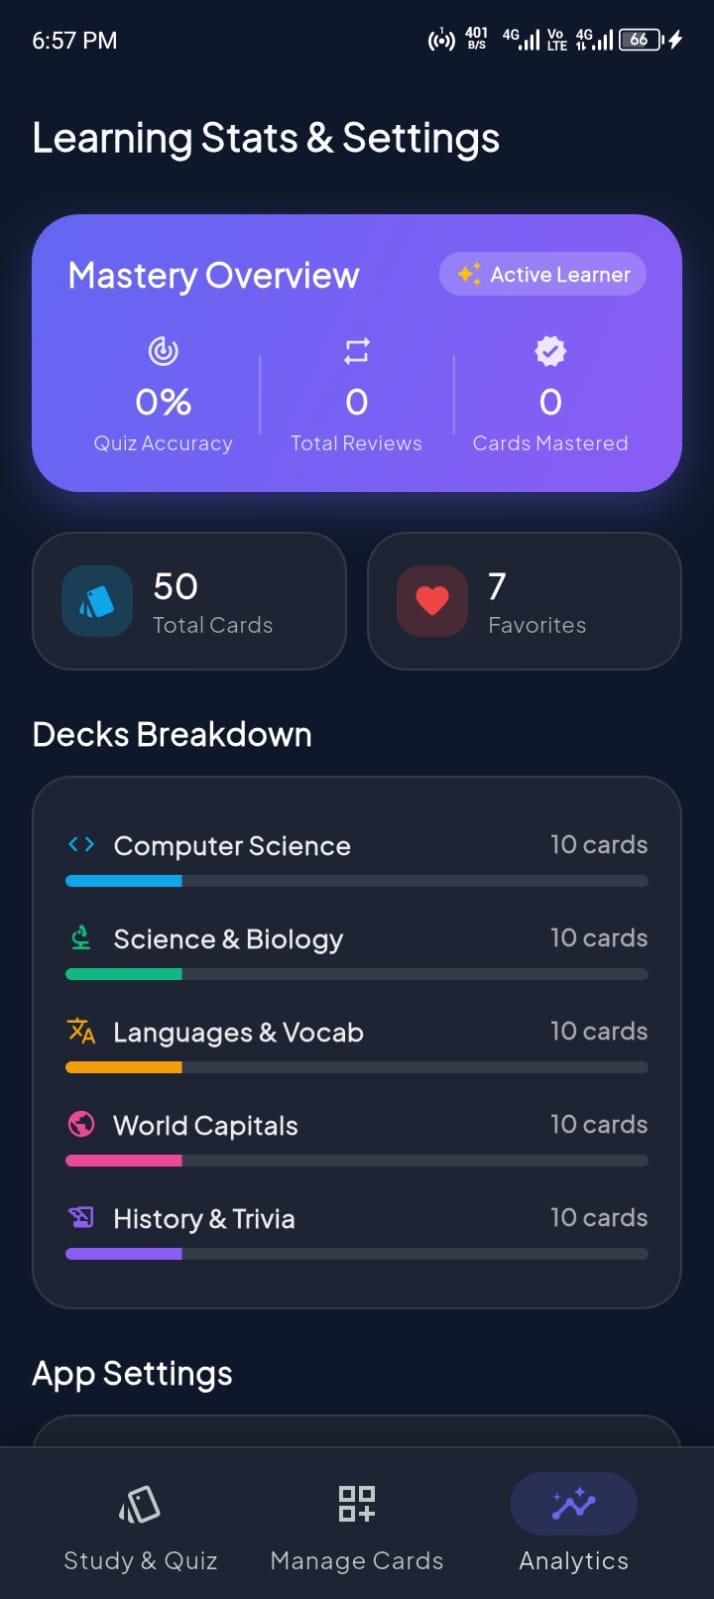
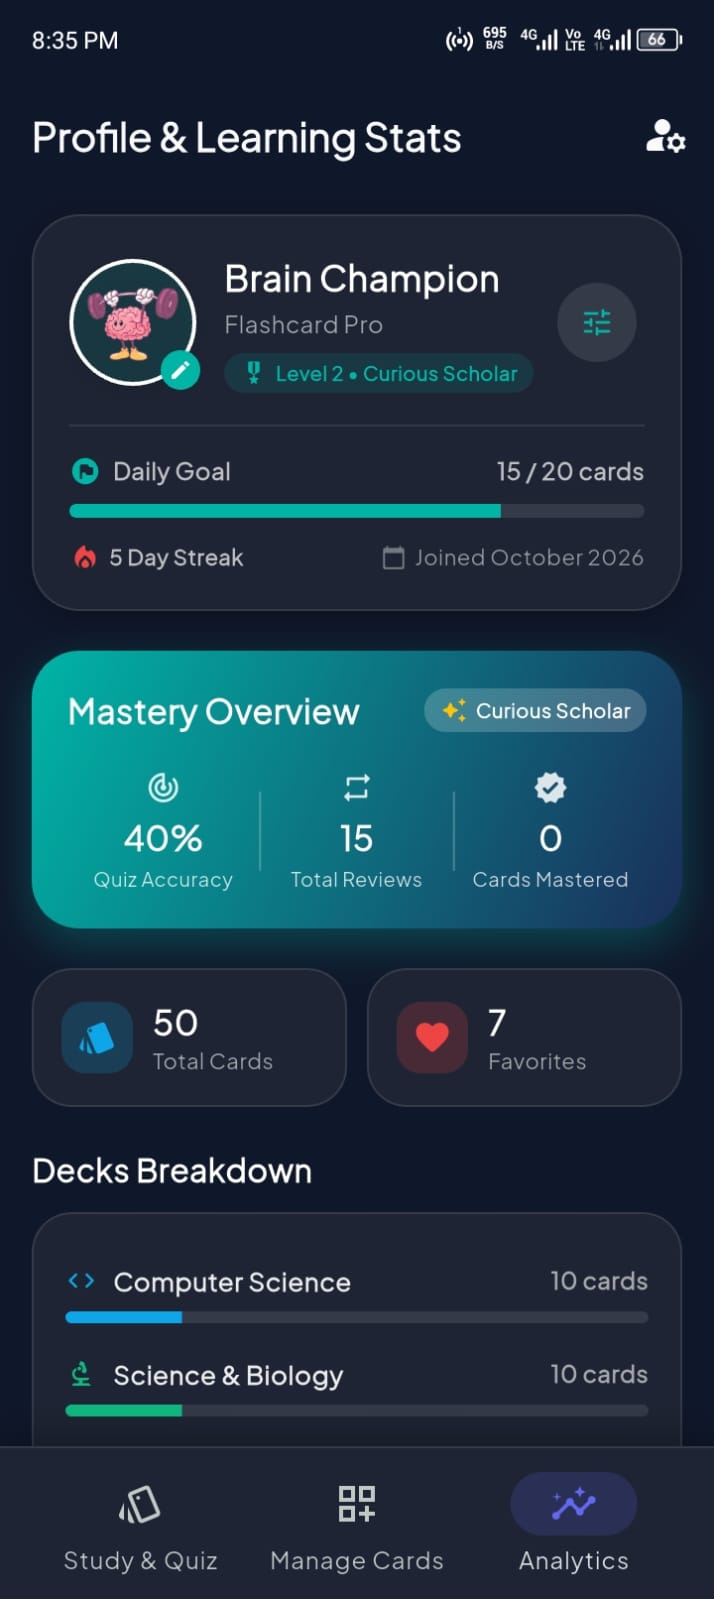
Add resized Recallio screenshot gallery

diff --git a/README.md b/README.md
@@ -1,68 +1,311 @@
-# Recallio – Flashcard Quiz App
+# Recallio 🧠✨ — Flashcard Quiz App
 
-**A clean, interactive, and engaging flashcard learning experience built with Flutter.**
+<p align="center">
+  <img src="assets/images/brain_mascot.png" width="160" alt="Recallio Brain Mascot">
+</p>
 
-Recallio is a flashcard quiz application developed as **Task 1 of the CodeAlpha App Development Internship**. It helps users organize study materials, review flashcards, and practice through quiz mode.
+<p align="center">
+  <strong>Study Smart. Recall Better.</strong><br>
+  A modern, interactive, and beautifully designed flashcard quiz application built with Flutter.
+</p>
 
-## ✨ Features
-
-- 📚 **Flashcard Learning:** View questions and reveal their answers.
-- 🔄 **Study Navigation:** Move between flashcards using Previous and Next controls.
-- ✏ **Card Management:** Add, edit, and delete flashcards.
-- 🧠 **Quiz Mode:** Practice knowledge through interactive quizzes.
-- 📊 **Study Statistics:** Track learning activity and progress.
-- 🎨 **Clean UI:** A simple and user-friendly interface.
-- 🗂 **Categories:** Organize flashcards for different study topics.
-
-## 🛠 Technologies Used
-
-- Flutter
-- Dart
-
-## 📱 App Screenshots
-
-Explore the interface of **Recallio — Flashcard Quiz App**, designed to make studying simple, interactive, and engaging.
-
-### Flutter Launch
-<img src="screenshots/flutter launch%20screen.jpeg" width="250" alt="Recallio Splash Screen">
-
-### Splash Screen
-<img src="screenshots/splash%20screen.jpeg" width="250" alt="Recallio Splash Screen">
-### Home Screen
-<img src="screenshots/quiz%20screen.jpeg" width="250" alt="Recallio Quiz Screen">
-
-### Study Card
-<img src="screenshots/study%20screen.jpeg" width="250" alt="Recallio Study Card">
-
-### Manage Card
-<img src="screenshots/Manage card%20screen.jpeg" width="250" alt="Recallio Manage card">
-
-### Add Flashcard
-<img src="screenshots/Add flashcard%20screen.jpeg" width="250" alt="Recallio Add flashCard">
-
-### Analytics Screen
-<img src="screenshots/Analytics%20screen.jpeg" width="250" alt="Recallio Analytics screen">
-
-
-## 🚀 Getting Started
-
-1. Clone this repository.
-2. Open the project folder in VS Code.
-3. Install dependencies:
-
-   `flutter pub get`
-
-4. Run the application:
-
-   `flutter run`
-
-## 🎯 Internship
-
-Developed as part of the **CodeAlpha App Development Internship**.
-
-**Task:** Flashcard Quiz App  
-**App Name:** Recallio
+<p align="center">
+  <img src="https://img.shields.io/badge/Flutter-3.x-02569B?logo=flutter" alt="Flutter">
+  <img src="https://img.shields.io/badge/Dart-3.x-0175C2?logo=dart" alt="Dart">
+  <img src="https://img.shields.io/badge/Platform-Android%20%7C%20iOS%20%7C%20Web-4CAF50" alt="Platforms">
+  <img src="https://img.shields.io/badge/Tests-17%20Passed-success" alt="Tests">
+  <img src="https://img.shields.io/badge/CodeAlpha-Task%201-blueviolet" alt="CodeAlpha">
+</p>
 
 ---
 
-*Recallio — Study smarter, Recall better.*
+## 📌 Project Overview
+
+**Recallio** was developed as **Task 1: Flashcard Quiz App** for the **CodeAlpha App Development Internship**.
+
+Designed around cognitive retention principles and spaced repetition, Recallio provides a clean, distraction-free environment for students, self-learners, and professionals to master concepts, test their knowledge, track their progress, and personalize their study journey.
+
+### 🎯 Internship Task Requirements Checklist
+
+| Requirement | Implementation in Recallio | Status |
+|---|---|:---:|
+| **Question on front, Answer on back** | 3D Matrix flip card animation with instant toggle | ✅ Completed |
+| **"Show Answer" button** | Dynamic Show / Hide Answer button + full card flip | ✅ Completed |
+| **Next & Previous navigation** | Dedicated responsive navigation buttons & swipe gestures | ✅ Completed |
+| **Add, Edit, and Delete flashcards** | Full CRUD modal bottom sheet with category & difficulty tags | ✅ Completed |
+| **Simple, clean, and intuitive UI** | Modern Material 3 UI, custom mascot, dark/light themes | ✅ Completed |
+| **Extra: Interactive Quiz Mode** | Self-scoring quiz session with live accuracy & confetti | 🌟 Bonus |
+| **Extra: Learner Profile & Goals** | Customizable profile, avatar picker, and daily study target | 🌟 Bonus |
+| **Extra: Analytics Dashboard** | Mastery breakdown, category distribution, and level ranks | 🌟 Bonus |
+
+---
+
+## 📱 App Screenshots
+
+Explore **Recallio — Study smarter, recall better**, a Flutter flashcard quiz app developed as part of my **CodeAlpha Mobile App Development Internship**.
+
+### 🚀 Launch & Getting Started
+
+<p align="center">
+  <img src="screenshots/flutter%20launch%20screen.jpeg" alt="Recallio Flutter Launch Screen" width="180"/>
+  &nbsp;&nbsp;
+  <img src="screenshots/splash%20screen.jpeg" alt="Recallio Splash Screen" width="180"/>
+</p>
+
+### 🃏 Flashcard Study Experience
+
+<p align="center">
+  <img src="screenshots/study%20screen.jpeg" alt="Recallio Study Screen" width="180"/>
+  &nbsp;&nbsp;
+  <img src="screenshots/show%20answer%20screen.jpeg" alt="Recallio Show Answer Screen" width="180"/>
+  &nbsp;&nbsp;
+  <img src="screenshots/hint%20screen.jpeg" alt="Recallio Hint Screen" width="180"/>
+</p>
+
+### 📝 Flashcard Management
+
+<p align="center">
+  <img src="screenshots/add%20flashcard%20screen.jpeg" alt="Recallio Add Flashcard Screen" width="180"/>
+  &nbsp;&nbsp;
+  <img src="screenshots/Manage%20card%20screen.jpeg" alt="Recallio Manage Cards Screen" width="180"/>
+</p>
+
+### 🎯 Quiz & Progress Tracking
+
+<p align="center">
+  <img src="screenshots/quiz%20screen.jpeg" alt="Recallio Quiz Screen" width="180"/>
+  &nbsp;&nbsp;
+  <img src="screenshots/analytics%20screen.jpeg" alt="Recallio Analytics Screen" width="180"/>
+</p>
+
+### 👤 Personalization
+
+<p align="center">
+  <img src="screenshots/edit%20profile%20screen.jpeg" alt="Recallio Edit Profile Screen" width="180"/>
+</p>
+
+---
+
+*Recallio — Study smarter, recall better.*
+
+---
+
+## 🚀 Key Features & Detailed Breakdown
+
+### 1. 🧠 Custom Mascot & Polished Launch Experience
+- **Cold-Boot Native Splash**: Completely custom Android launch screen (`launch_background.xml` & Android 12+ `values-v31/styles.xml`) featuring the white background and centered mascot.
+- **Adaptive App Icons**: Multi-density launcher icons (`mdpi` through `xxxhdpi`) featuring Recallio's signature pink brain mascot lifting a barbell.
+- **Interactive Animated Splash Screen**:
+  - Smooth staggered entrance: soft radial teal glow, floating pastel decorative dots, and elastic bounce scale animation for the mascot.
+  - Bold **Recallio** branding with tagline: *"Study Smart. Recall Better."*
+  - Automatically transitions to the main study deck after 2.8 seconds.
+
+### 2. 📖 3D Flip Card Study Mode
+- **Realistic 3D Card Animation**: Built with custom `Matrix4` perspective transforms (550ms ease) allowing a true double-sided card flip.
+- **Card Front**: Displays Question, Category pill, Difficulty badge (Easy, Medium, Hard), and Favorite bookmark toggle.
+- **Card Back**: Reveals the complete Answer, category context, and an expandable **Hint Drawer** for extra clues.
+- **Intuitive Navigation**:
+  - Dedicated **"Previous"** and **"Next"** bottom control buttons.
+  - Horizontal swipe gestures across cards.
+  - Real-time card counter (e.g. `Card 4 of 50`).
+- **Deck Selector Bar**: Horizontal scrollable categories with live card count pills:
+  - *All Decks*, *Computer Science*, *Science & Biology*, *Languages & Vocab*, *World Capitals*, *History & Trivia*.
+- **Smart End-of-Deck Notification**:
+  - Non-intrusive floating SnackBar displaying *"Reached the end of this deck!"*.
+  - Includes a quick **Restart** action button that auto-dismisses after 3 seconds.
+
+### 3. 🎯 Self-Assessment Quiz Mode & Confetti Celebration
+- **Mode Toggle**: Instantly switch between relaxed **Study Mode** and testing **Quiz Mode**.
+- **Self-Evaluation**:
+  - Flip the card to check the answer, then rate your recall:
+    - ❌ **Needs Practice** (marks card for review).
+    - ✅ **Got It Right** (increases mastery rating).
+- **Celebration Dialog**:
+  - Reaching the end triggers a colorful confetti shower (`confetti` package).
+  - Shows session score, accuracy percentage, and cards mastered.
+  - One-tap option to restart or **Review Missed Cards** exclusively.
+
+### 4. ✏ Comprehensive Card Management (CRUD)
+- **Add New Flashcards**:
+  - Modern modal bottom sheet with full form validation.
+  - Fields: Question, Answer, Category (presets or custom), Difficulty level, and optional Study Hint.
+- **Edit Existing Cards**:
+  - Edit any field at any time from both the Study screen popup and the Manage tab.
+- **Delete with Undo Safety**:
+  - Delete cards with instant undo notification toast.
+- **Real-Time Keyword Search**:
+  - Instant live filtering across questions, answers, and hints.
+- **Filters**:
+  - One-tap **Favorites** filter chip.
+  - Category selector chips.
+
+### 5. 👤 Learner Profile & Study Targets (Analytics Screen)
+- **Profile Header Card**:
+  - **Customizable Avatar**: Choose between the cute Recallio Mascot or 7 icon personas (🎓 Scholar, 🚀 Explorer, ⚡ Speed, 🔥 Streak, 💡 Genius, 🏆 Champion, ⭐ Master).
+  - **Learner Identity**: Display Name and study focus / title.
+  - **Dynamic Rank & Level**: Progression system calculated from total reviews:
+    - *Level 1 • Apprentice Mind* (0–9 reviews)
+    - *Level 2 • Curious Scholar* (10–29 reviews)
+    - *Level 3 • Memory Champion* (30–59 reviews)
+    - *Level 4 • Knowledge Master* (60–99 reviews)
+    - *Level 5 • Recall Grandmaster* (100+ reviews)
+- **Daily Review Target Progress**:
+  - Real-time progress bar tracking reviews completed today vs. your daily goal (5, 10, 15, 20, 25, 30 cards/day).
+  - Visual goal achievement badge upon hitting daily target.
+- **Active Study Streak**: Daily streak tracker (`🔥 Day Streak`) and join date.
+- **Interactive Edit Profile Dialog**:
+  - Slide-up bottom sheet allowing real-time edits to name, title presets, avatar, and daily goal.
+
+### 6. 📊 Analytics & Visual Insights
+- **Hero Mastery Overview Banner**:
+  - Quiz Accuracy %, Total Review count, and Mastered Cards count.
+- **Quick Metrics Grid**:
+  - Total collection size and total bookmarked favorites.
+- **Decks Breakdown**:
+  - Visual category distribution with colored progress bars matching each deck's identity.
+
+### 7. 🌓 Dark / Light Themes & Settings
+- **Theme Mode**: Full dark and light theme support with smooth transition and persistent state.
+- **Default Decks Restore**: One-tap reset to restore the 50 starter flashcards (10 per category).
+
+---
+
+## 🏗 Project Architecture & File Structure
+
+```text
+codealpha_flashcard_quiz_app/
+├── android/
+│   └── app/src/main/
+│       ├── AndroidManifest.xml          # App label "Recallio", back gestures, intent filters
+│       └── res/
+│           ├── drawable/                # Native launch splash background
+│           ├── drawable-v21/            # Android 5.0+ launch background
+│           ├── values-v31/              # Android 12+ SplashScreen theme
+│           └── mipmap-*/                # Multi-density launcher icons
+├── assets/
+│   └── images/
+│       └── brain_mascot.png             # Official Recallio mascot asset
+├── lib/
+│   ├── models/
+│   │   ├── deck_category.dart           # Deck category definitions, colors & icons
+│   │   ├── flashcard.dart               # Flashcard model with serialization & stats
+│   │   └── user_profile.dart            # User profile model & rank tier calculations
+│   ├── screens/
+│   │   ├── manage_cards_screen.dart     # Card management, search, and filter list
+│   │   ├── splash_screen.dart           # Animated splash screen with mascot & typography
+│   │   ├── stats_screen.dart            # Profile section, analytics dashboard & settings
+│   │   └── study_quiz_screen.dart       # Main 3D card study view & quiz mode
+│   ├── services/
+│   │   ├── flashcard_service.dart       # SharedPreferences CRUD & 50 starter cards
+│   │   ├── theme_service.dart           # Persistent light/dark theme provider
+│   │   └── user_profile_service.dart    # Persistent user profile & daily goal state
+│   ├── widgets/
+│   │   ├── add_edit_card_dialog.dart    # Modal bottom sheet for card creation/edit
+│   │   ├── deck_selector_bar.dart       # Horizontal scrollable category pills
+│   │   ├── edit_profile_dialog.dart     # Modal bottom sheet for profile customization
+│   │   ├── flashcard_view.dart          # 3D Matrix flip card widget
+│   │   └── quiz_completion_dialog.dart  # Confetti results dialog with retry missed
+│   └── main.dart                        # App entry point, ThemeData & bottom navigation
+├── screenshots/                         # App showcase images
+├── test/
+│   ├── flashcard_service_test.dart      # 8 unit tests for FlashcardService
+│   ├── user_profile_service_test.dart   # 4 unit tests for UserProfile & ranks
+│   └── widget_test.dart                 # 5 widget tests for UI, flips, search & profile
+└── pubspec.yaml                         # Dependencies, assets & fonts configuration
+```
+
+---
+
+## 🛠 Tech Stack & Packages
+
+- **Framework**: [Flutter 3.x](https://flutter.dev) (Dart 3.x)
+- **UI Architecture**: Material 3 Design with custom typography using `google_fonts` (Plus Jakarta Sans & Nunito)
+- **State Management**: `ChangeNotifier` with reactive listeners
+- **Local Persistence**: `shared_preferences` for cards, profile, and theme settings
+- **ID Generation**: `uuid` for unique card IDs
+- **Celebration Effects**: `confetti` for celebratory quiz completion animations
+- **Testing**: `flutter_test` suite with complete unit and widget test coverage
+
+---
+
+## 🧪 Automated Test Suite
+
+Recallio includes a robust test suite covering all critical services, widget interactions, 3D card flips, and dialog workflows:
+
+```bash
+flutter test
+```
+
+### ✅ Test Results (17/17 Passing)
+- **`flashcard_service_test.dart`**:
+  - Initializes with 50 starter cards (10 per category) on first run
+  - Adds new flashcard
+  - Updates existing flashcard
+  - Deletes flashcard
+  - Toggles favorite status
+  - Accurately tracks quiz results and accuracy
+  - Filters cards by category
+  - Resets cards to default collection
+- **`user_profile_service_test.dart`**:
+  - Initializes with default profile
+  - Updates name, title, avatar, and daily study goal
+  - Persists profile across instances
+  - Correctly calculates level and rank titles
+- **`widget_test.dart`**:
+  - `FlashcardView` question display and 3D flip animation
+  - `StudyQuizScreen` card navigation (Next / Previous)
+  - `ManageCardsScreen` live keyword search and filtering
+  - `SplashScreen` mascot, typography, and timed callback
+  - `StatsScreen` Profile section rendering and interactive profile editing
+
+---
+
+## ⚡ Getting Started & Installation
+
+### Prerequisites
+- [Flutter SDK](https://docs.flutter.dev/get-started/install) (version 3.10 or higher)
+- Android Studio / VS Code with Flutter extension
+- An Android device or emulator (tested on Android 13 / API 33)
+
+### Installation Steps
+
+1. **Clone the repository**:
+   ```bash
+   git clone https://github.com/your-username/codealpha_flashcard_quiz_app.git
+   cd codealpha_flashcard_quiz_app
+   ```
+
+2. **Install project dependencies**:
+   ```bash
+   flutter pub get
+   ```
+
+3. **Run automated tests**:
+   ```bash
+   flutter test
+   ```
+
+4. **Run the application**:
+   - For connected Android phone:
+     ```bash
+     flutter run
+     ```
+   - For Chrome / Web:
+     ```bash
+     flutter run -d chrome
+     ```
+
+---
+
+## 👨💻 Developer & Internship Information
+
+- **Internship**: **CodeAlpha App Development Internship**
+- **Task Assigned**: **Task 1 — Flashcard Quiz App**
+- **App Name**: **Recallio**
+- **Tagline**: *Study Smart. Recall Better.*
+
+---
+
+<p align="center">
+  Made with ❤ and Flutter for <strong>CodeAlpha</strong>.
+</p>
